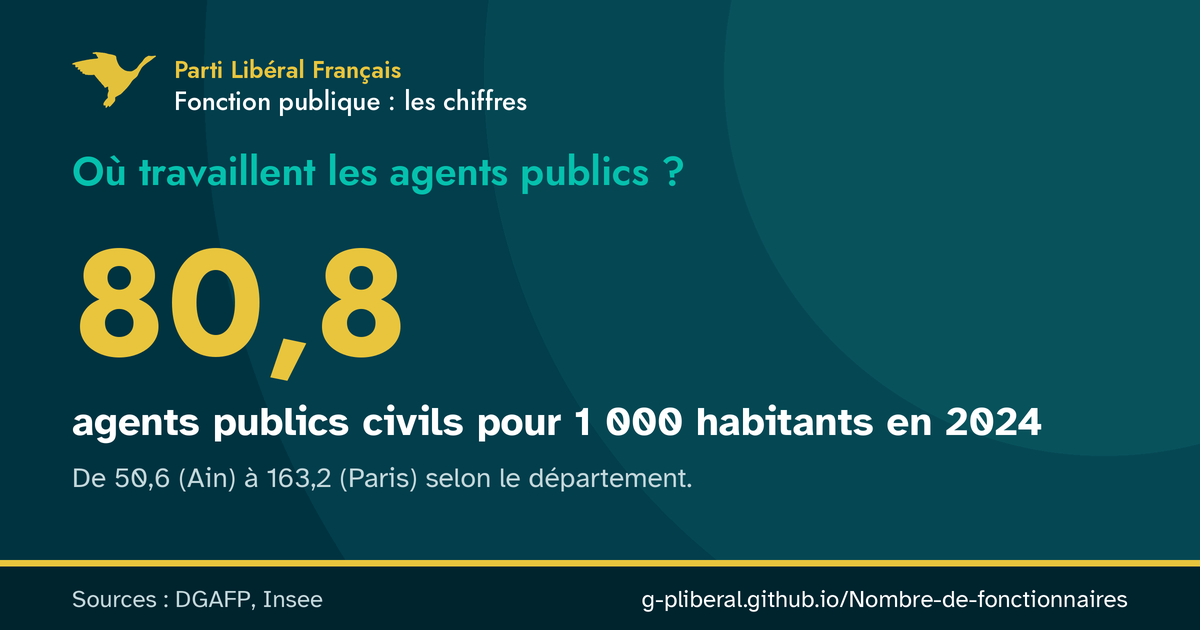
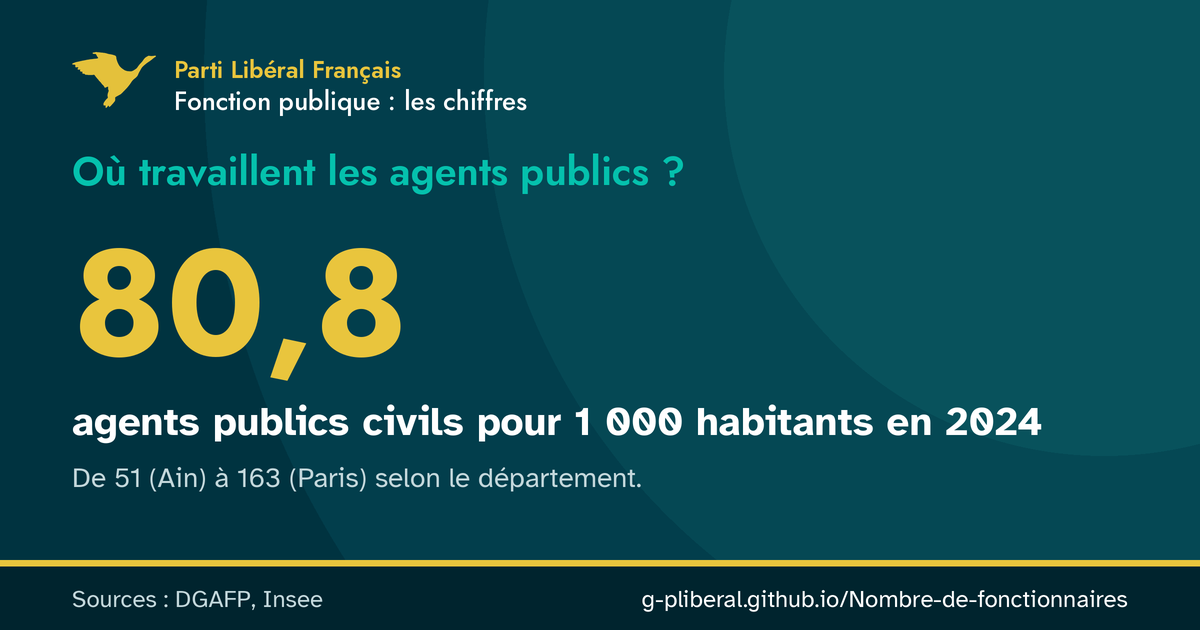
Images de partage : chiffres de la carte repris de construire_donnees.py, ordre stable, contrôle en CI
La carte utilise désormais les clés dep_* (mêmes valeurs arrondies que la page carte.html)
au lieu de refaire le calcul. L'ordre des producteurs ne dépend plus du hasard.
La CI relance le script et vérifie que les textes des images repris dans les pages sont à jour.

Claude-Session: https://claude.ai/code/session_01FVFLAiLkMjKCEYqN1RL9PT

Changed region(s): [[0.0925, 0.7238, 0.5858, 0.7841]]

diff --git a/carte.html b/carte.html
@@ -17,10 +17,10 @@
 <meta property="og:image:type" content="image/png">
 <meta property="og:image:width" content="1200">
 <meta property="og:image:height" content="630">
-<meta property="og:image:alt" content="Où travaillent les agents publics ? 80,8 agents publics civils pour 1 000 habitants en 2024. De 50,6 (Ain) à 163,2 (Paris) selon le département.">
+<meta property="og:image:alt" content="Où travaillent les agents publics ? 80,8 agents publics civils pour 1 000 habitants en 2024. De 51 (Ain) à 163 (Paris) selon le département.">
 <meta name="twitter:card" content="summary_large_image">
 <meta name="twitter:image" content="https://g-pliberal.github.io/Nombre-de-fonctionnaires/assets/img/partage/carte.png">
-<meta name="twitter:image:alt" content="Où travaillent les agents publics ? 80,8 agents publics civils pour 1 000 habitants en 2024. De 50,6 (Ain) à 163,2 (Paris) selon le département.">
+<meta name="twitter:image:alt" content="Où travaillent les agents publics ? 80,8 agents publics civils pour 1 000 habitants en 2024. De 51 (Ain) à 163 (Paris) selon le département.">
 <!-- partage:fin -->
 <link rel="icon" href="assets/img/logo-plf.svg" type="image/svg+xml">
 <link rel="preload" href="assets/fonts/jost-latin-variable.woff2" as="font" type="font/woff2" crossorigin>

diff --git a/outils/images_partage.py b/outils/images_partage.py
@@ -70,10 +70,6 @@ def lire_site(nom: str) -> dict:
     return json.loads(m.group(1))
 
 
-def fr(n: float, dec: int = 1) -> str:
-    return f"{n:,.{dec}f}".replace(",", " ").replace(".", ",")
-
-
 class Cles(dict):
     """Dictionnaire des chiffres clés : une clé absente arrête le script."""
 
@@ -85,26 +81,11 @@ class Cles(dict):
         raise Anomalie(f"chiffre clé « {cle} » absent de donnees/site/{self.source}.js")
 
 
-def taux_departements(D: dict) -> tuple:
-    """Agents civils pour 1 000 habitants, dernière année : France, minimum, maximum
-    (même calcul que la carte, assets/js/carte.js)."""
-    i = len(D["annees"]) - 1
-    taux = []
-    for code, d in D["departements"].items():
-        e, p = d["ensemble"][i], d["population"][i]
-        if e is not None and p:
-            taux.append((1000 * e / p, d["nom"]))
-    if len(taux) < 90:
-        raise Anomalie(f"carte : seulement {len(taux)} départements renseignés")
-    F = D["france"]
-    france = 1000 * F["ensemble"][i] / F["population"][i]
-    return D["annees"][i], france, min(taux), max(taux)
-
-
 def producteurs() -> list[str]:
     with open(RACINE / "donnees" / "csv" / "sources.csv", encoding="utf-8", newline="") as f:
         lignes = list(csv.DictReader(f, delimiter=";"))
-    return lignes, sorted({l["producteur"] for l in lignes}, key=lambda p: -sum(l["producteur"] == p for l in lignes))
+    # Du plus cité au moins cité ; à égalité, dans l'ordre de sources.csv (résultat stable).
+    return lignes, sorted(dict.fromkeys(l["producteur"] for l in lignes), key=lambda p: -sum(l["producteur"] == p for l in lignes))
 
 
 def cartes() -> dict:
@@ -113,6 +94,7 @@ def cartes() -> dict:
     R = lire_site("retraites")
     D = lire_site("departements")
     n, m, r = Cles("national", N["cles"]), Cles("masse_salariale", M["cles"]), Cles("retraites", R["cles"])
+    d = Cles("departements", D["cles"])
 
     def grand(texte):
         """« 5,85 millions » -> ("5,85", "millions")."""
@@ -123,7 +105,6 @@ def cartes() -> dict:
     i_ref = E["annees"].index(int(n["annee_ref"]))
     courbe = [(a, v) for a, v in zip(E["annees"][i_ref:], E["actuelle"]["total"][i_ref:]) if v is not None]
 
-    an_carte, t_fr, t_min, t_max = taux_departements(D)
     lignes_sources, prods = producteurs()
 
     c = {}
@@ -144,9 +125,9 @@ def cartes() -> dict:
     )
     c["carte"] = dict(
         question="Où travaillent les agents publics ?",
-        valeur=(fr(t_fr), ""),
-        libelle=f"agents publics civils pour 1 000 habitants en {an_carte}",
-        detail=f"De {fr(t_min[0])} ({t_min[1]}) à {fr(t_max[0])} ({t_max[1]}) selon le département.",
+        valeur=(d["dep_taux_france"], ""),
+        libelle=f"agents publics civils pour 1 000 habitants en {d['dep_derniere_annee']}",
+        detail=f"De {d['dep_taux_min']} ({d['dep_nom_min']}) à {d['dep_taux_max']} ({d['dep_nom_max']}) selon le département.",
         source="Sources : DGAFP, Insee",
     )
     c["composition"] = dict(
